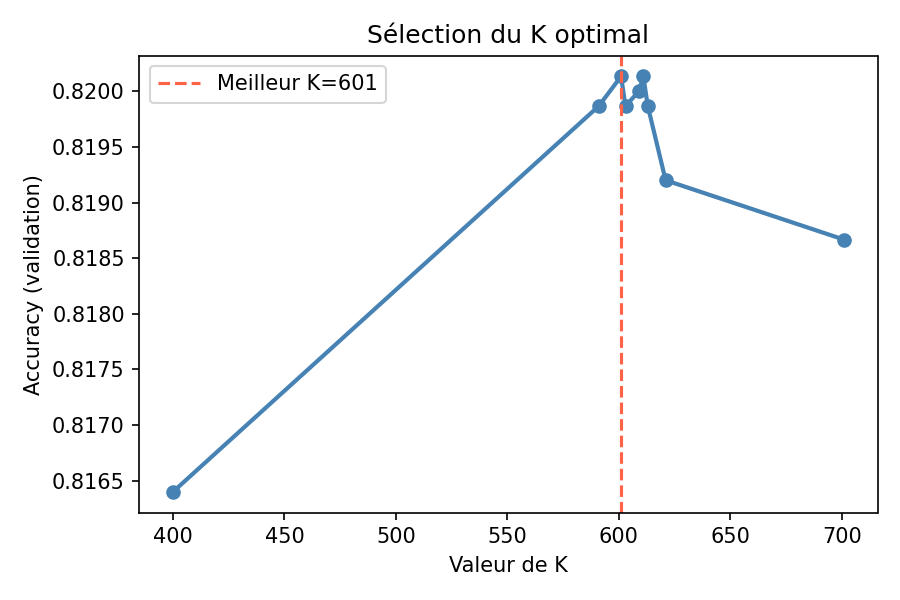
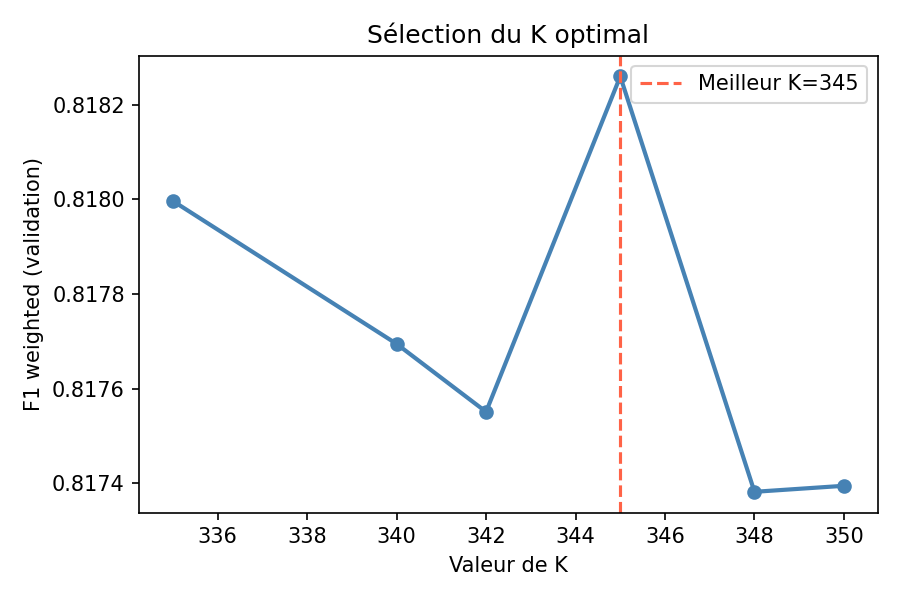
ajustement des scripts

diff --git a/2_validation.py b/2_validation.py
@@ -7,7 +7,7 @@ import scipy.sparse as sp
 import matplotlib.pyplot as plt
  
 from sklearn.neighbors import KNeighborsClassifier
-from sklearn.metrics import accuracy_score
+from sklearn.metrics import accuracy_score, f1_score
 
 # chargement des corpus train et validation
 X_train = sp.load_npz('X_train.npz')
@@ -16,33 +16,38 @@ y_train = pd.read_csv('y_train.csv')['sentiment']
 y_val   = pd.read_csv('y_val.csv')['sentiment']
 
 # Test de plusieurs valeurs de K
-"""K_VALUES = [1, 15, 47,89, 151, 551, 661, 1551]
-K_VALUES = [401, 451, 501, 551, 601, 651, 701] 
-K_VALUES = [561, 571, 581, 591, 601, 611, 621] # après quelques suites de petits tests de dichonomy avec ces k, on trouve le meilleur k 
+"""K_VALUES = [1, 5, 10, 50, 100, 200, 400, 600, 800, 1000]
+K_VALUES = [350, 370, 390, 400, 410, 430, 450, 500, 550, 600] 
+K_VALUES = [240, 260, 280, 300, 320, 330, 340, 350, 360] 
+K_VALUES = [335, 340, 342, 345, 348, 350] # après quelques suites de petits tests de dichonomy avec ces k, on trouve le meilleur k 
 """
 
-K_VALUES = [400, 591, 601, 603, 609, 611, 613, 621, 701]
-accuracies = {}
- 
+K_VALUES = [335, 340, 342, 345, 348, 350]
+scores = {}
+
 for k in K_VALUES:
     print(f"Test K={k} ...", end=' ', flush=True)
     knn = KNeighborsClassifier(n_neighbors=k, metric='cosine', n_jobs=-1)
     knn.fit(X_train, y_train)
-    acc = accuracy_score(y_val, knn.predict(X_val))
-    accuracies[k] = acc
-    print(f"Accuracy = {acc:.4f}")
- 
-meilleur_k = max(accuracies, key=accuracies.get)
-print(f"\nMeilleur K = {meilleur_k}  (Accuracy = {accuracies[meilleur_k]:.4f})")
+    y_pred = knn.predict(X_val)
+    
+    acc = accuracy_score(y_val, y_pred)
+    f1  = f1_score(y_val, y_pred, average='weighted')
+    
+    scores[k] = f1  # pour choisir le meilleur k : F1 weighted
+    print(f"Accuracy = {acc:.4f} | F1 (weighted) = {f1:.4f}")
+
+meilleur_k = max(scores, key=scores.get)
+print(f"\nMeilleur K = {meilleur_k}  (F1 weighted = {scores[meilleur_k]:.4f})")
 
 with open('meilleur_k.txt', 'w') as f:
     f.write(str(meilleur_k)) # sauvegarder le meilleur k afin de faciliter l'évaluation suivante
 
 plt.figure(figsize=(6, 4))
-plt.plot(list(accuracies.keys()), list(accuracies.values()), marker='o', color='steelblue', linewidth=2)
+plt.plot(list(scores.keys()), list(scores.values()), marker='o', color='steelblue', linewidth=2)
 plt.axvline(meilleur_k, color='tomato', linestyle='--', label=f'Meilleur K={meilleur_k}')
 plt.xlabel('Valeur de K')
-plt.ylabel('Accuracy (validation)')
+plt.ylabel('F1 weighted (validation)')
 plt.title('Sélection du K optimal')
 plt.legend()
 plt.tight_layout()

diff --git a/1_entrainement.py b/1_entrainement.py
@@ -4,37 +4,15 @@
 import re
 import pandas as pd
 import scipy.sparse as sp
+from pretraitement import pretraitement
  
 from bs4 import BeautifulSoup
 from sklearn.feature_extraction.text import TfidfVectorizer
 from sklearn.model_selection import train_test_split
 import nltk
 
-# 1. prétraitement : nettoyer les données
-"""
-Il est noté qu'il existe des <br /> étiquettes
-"""
-nltk.download('stopwords', quiet=True)
-from nltk.corpus import stopwords
-stop_words = set(stopwords.words('english'))
 
-def pretraitement(text):
-    # retirer les html étiquettes par la librairie BeautifulSoup
-    text = BeautifulSoup(text, "html.parser").get_text()
-    
-    # en miniscule
-    text = text.lower()
-    
-    # supprimer les ponctuations et les symboles spéciales
-    text = re.sub(r'[^a-z\s]', '', text)
-    
-    # enlever les stopwords
-    words = text.split()
-    words = [w for w in words if w not in stop_words]
-    
-    return ' '.join(words)
-
-# 2. chargement des corpus
+# 1. chargement des corpus
 train_df = pd.read_csv('./dataset/imdb_train.csv')
 val_df   = pd.read_csv('./dataset/imdb_validation.csv')
 test_df  = pd.read_csv('./dataset/imdb_test.csv')
@@ -42,6 +20,11 @@ test_df  = pd.read_csv('./dataset/imdb_test.csv')
 print(f"Train : {len(train_df)} | Validation : {len(val_df)} | Test : {len(test_df)}")
 
 print("Terminé en charge des données d'entrainement.")
+
+# 2. prétraitement : nettoyer les données
+"""
+Il est noté qu'il existe des <br /> étiquettes
+"""
 
 print("Prétraitement en cours...")
 X_train_texte = train_df['review'].apply(pretraitement)